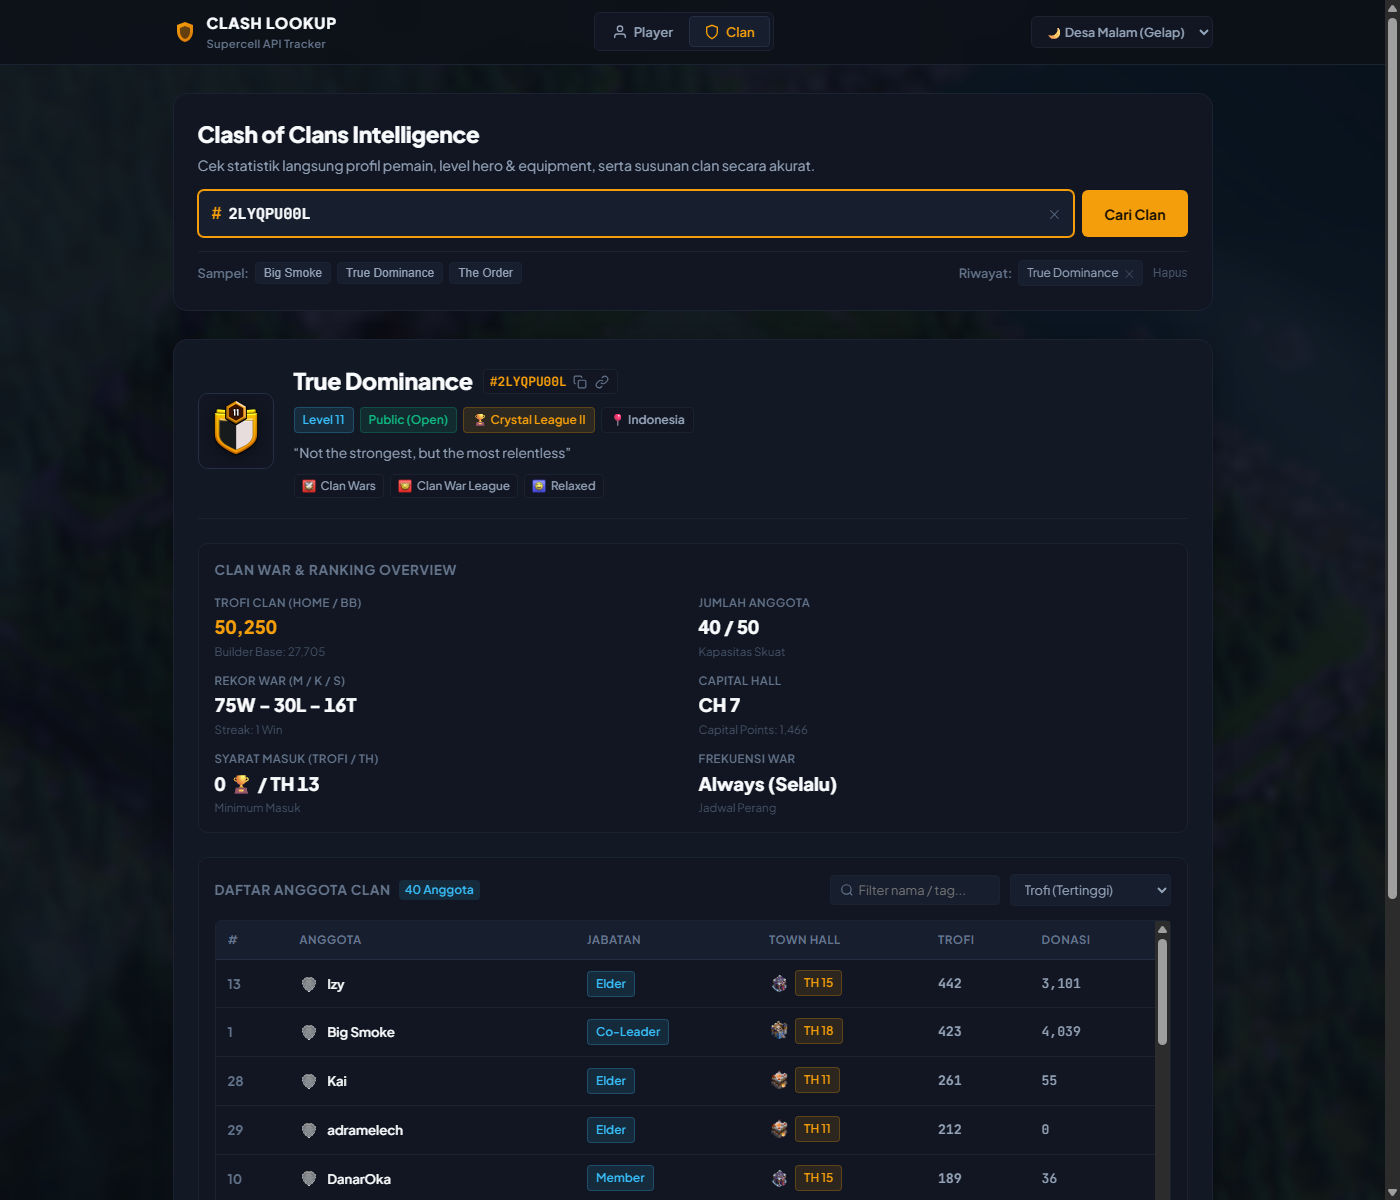
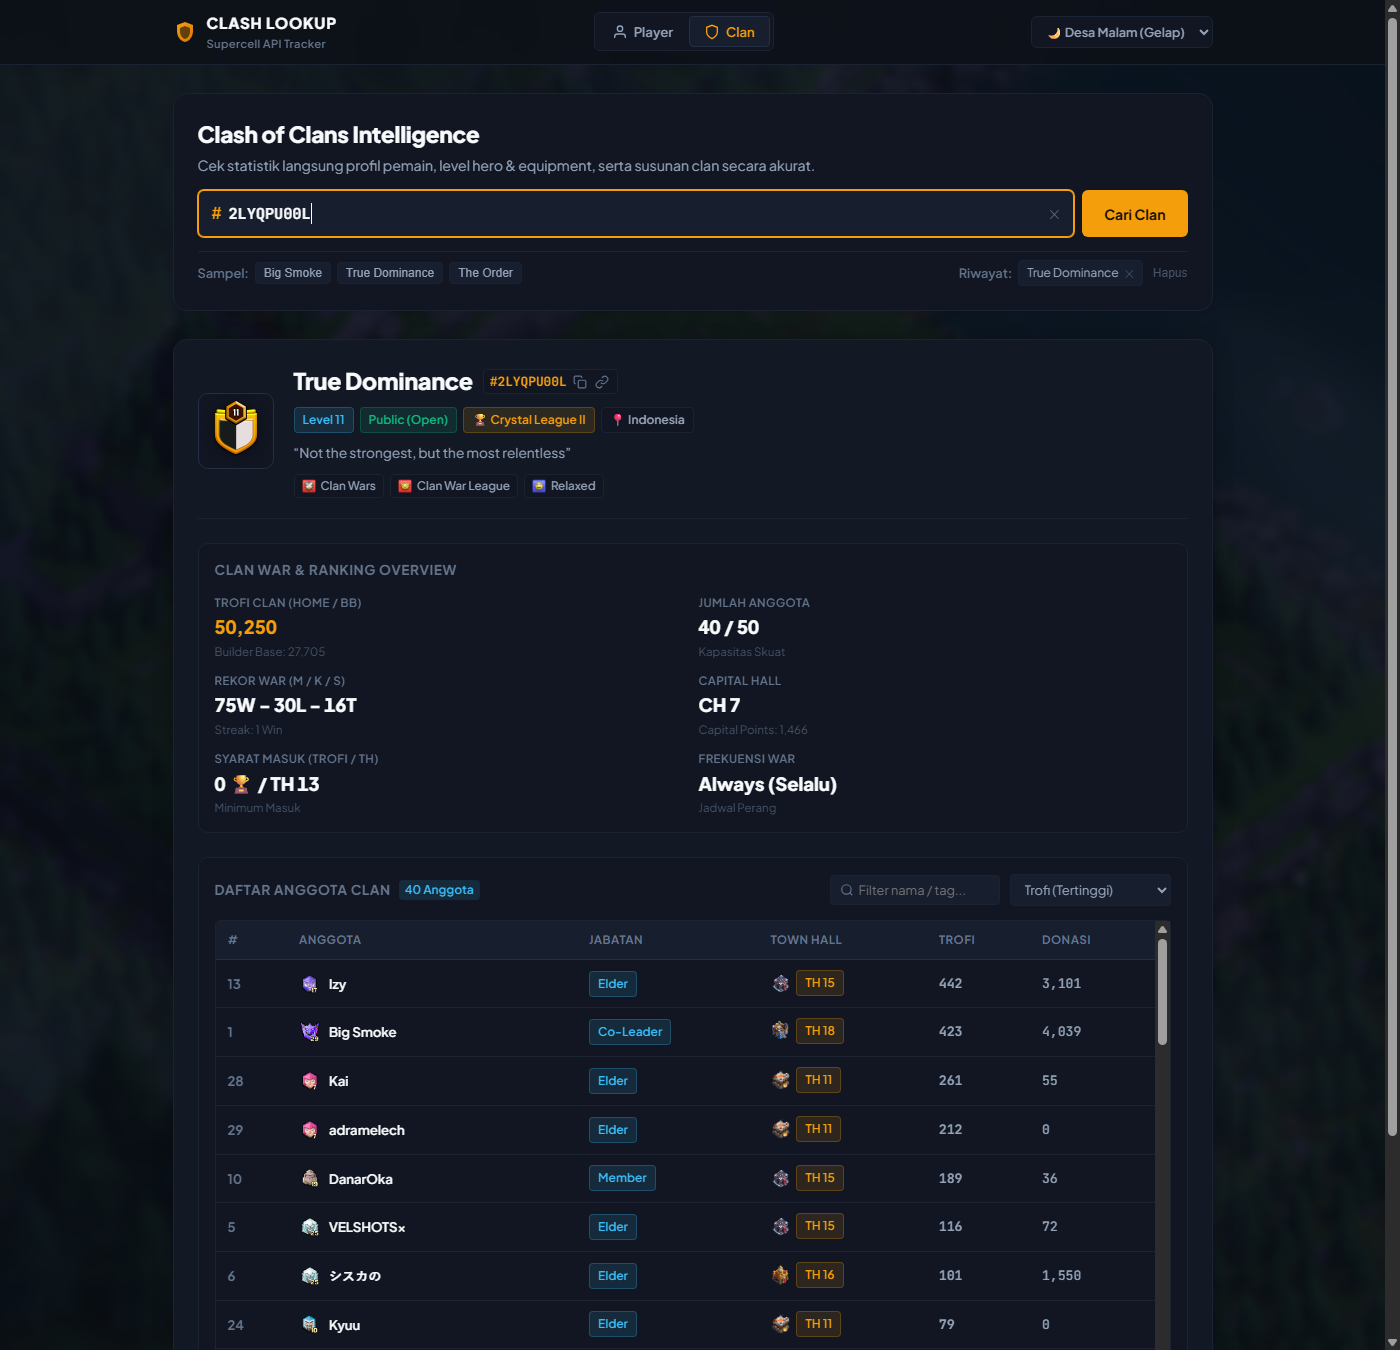
fix(roster): resolve and display league rank tier emblems in clan members table and update screenshot

diff --git a/src/controllers/playerController.js b/src/controllers/playerController.js
@@ -51,18 +51,25 @@ async function handlePlayerLookup(req, res) {
         player.clan && player.clan.badgeUrls
           ? player.clan.badgeUrls.medium || player.clan.badgeUrls.small
           : null,
-      league: player.league
+      league: player.leagueTier
+        ? {
+            name: player.leagueTier.name,
+            iconUrl: player.leagueTier.iconUrls
+              ? player.leagueTier.iconUrls.small || player.leagueTier.iconUrls.large
+              : null,
+          }
+        : player.league && player.league.name !== "Unranked"
         ? {
             name: player.league.name,
             iconUrl: player.league.iconUrls
               ? player.league.iconUrls.medium || player.league.iconUrls.small
               : null,
           }
-        : player.leagueTier
+        : player.league
         ? {
-            name: player.leagueTier.name,
-            iconUrl: player.leagueTier.iconUrls
-              ? player.leagueTier.iconUrls.small || player.leagueTier.iconUrls.large
+            name: player.league.name,
+            iconUrl: player.league.iconUrls
+              ? player.league.iconUrls.medium || player.league.iconUrls.small
               : null,
           }
         : null,

diff --git a/src/controllers/clanController.js b/src/controllers/clanController.js
@@ -120,10 +120,16 @@ async function handleClanMembersLookup(req, res) {
         donations: member.donations ?? 0,
         donationsReceived: member.donationsReceived ?? 0,
         leagueIcon:
-          member.league?.iconUrls?.small ||
           member.leagueTier?.iconUrls?.small ||
+          member.leagueTier?.iconUrls?.large ||
+          (member.league?.name !== "Unranked" ? member.league?.iconUrls?.small : null) ||
+          member.league?.iconUrls?.small ||
           null,
-        leagueName: member.league?.name || member.leagueTier?.name || null,
+        leagueName:
+          member.leagueTier?.name ||
+          (member.league?.name !== "Unranked" ? member.league?.name : null) ||
+          member.league?.name ||
+          "Unranked",
       })),
     });
   } catch (error) {

diff --git a/public/js/clan.js b/public/js/clan.js
@@ -95,8 +95,8 @@ export function updateRosterTable(onMemberClick) {
   const rows = list
     .map((m, idx) => {
       const icon = m.leagueIcon
-        ? `<img class="member-league-img" src="${m.leagueIcon}" alt="" />`
-        : "";
+        ? `<img class="member-league-img" src="${m.leagueIcon}" alt="${m.leagueName || 'Rank'}" title="${m.leagueName || 'Rank'}" loading="lazy" onerror="this.onerror=null; this.src='/assets/trophy-temp.svg';" />`
+        : `<img class="member-league-img" src="/assets/trophy-temp.svg" alt="Rank" />`;
       const thImg = m.townHallLevel
         ? `<img class="table-th-icon" src="${getTownHallImg(m.townHallLevel)}" alt="TH ${m.townHallLevel}" loading="lazy" />`
         : "";

diff --git a/public/app.js b/public/app.js
@@ -158,6 +158,7 @@ function handleDeepLink() {
   const cTag = params.get("clan");
   const themeParam = params.get("theme");
   const armoryParam = params.get("armory");
+  const scrollParam = params.get("scroll");
 
   if (themeParam) {
     applyTheme(themeParam);
@@ -190,6 +191,12 @@ function handleDeepLink() {
     elements.tagInput.value = cTag.replace(/^#/, "");
     elements.clearInputBtn.classList.add("visible");
     executeClanSearch(cTag);
+
+    if (scrollParam === "members") {
+      setTimeout(() => {
+        document.querySelector(".clan-members-section")?.scrollIntoView();
+      }, 700);
+    }
   }
 }
 

diff --git a/public/css/clan.css b/public/css/clan.css
@@ -185,9 +185,10 @@
 }
 
 .member-league-img {
-  width: 20px;
-  height: 20px;
+  width: 22px;
+  height: 22px;
   object-fit: contain;
+  flex-shrink: 0;
 }
 
 .table-th-flex {

diff --git a/README.md b/README.md
@@ -30,7 +30,7 @@ Sistem tab showcase equipment hero (Common & Epic) dengan artwork resmi resolusi
 ---
 
 ### 3. 🛡 Profil Clan & Roster Anggota (Clan View)
-Informasi komprehensif clan (badge resmi, level clan, war win streak, rekor war, capital hall) serta tabel anggota clan interaktif dengan fitur filter nama/tag dan sortir dinamis (Trofi, TH, Donasi).
+Informasi komprehensif clan (badge resmi, level clan, war win streak, rekor war, capital hall) serta tabel anggota clan interaktif lengkap dengan emblem rank liga pemain (Dragon League, Titan League, PEKKA League, dll.), preview icon Town Hall, filter pencarian instan nama/tag, dan sortir dinamis (Trofi, TH, Donasi).
 
 ![Clan Profile & Roster](docs/screenshots/clan-profile.png)
 
